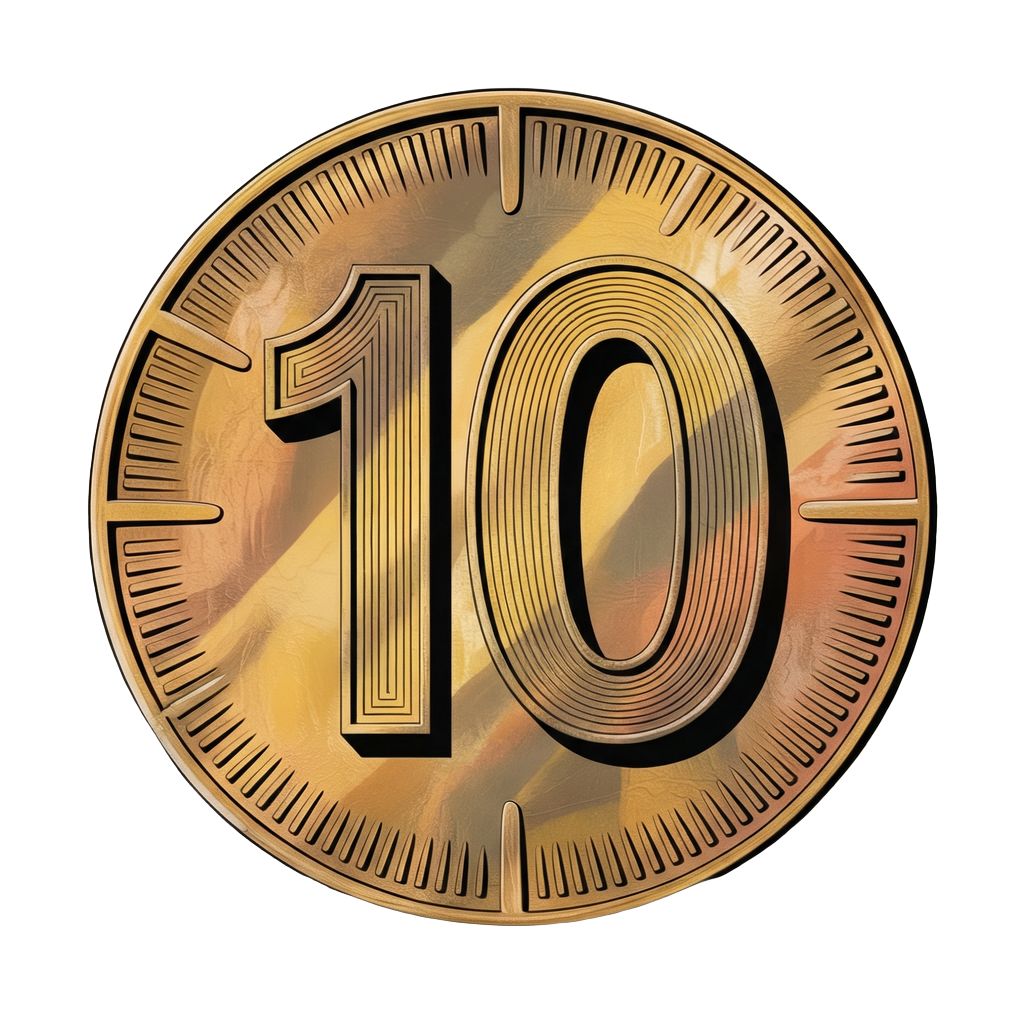
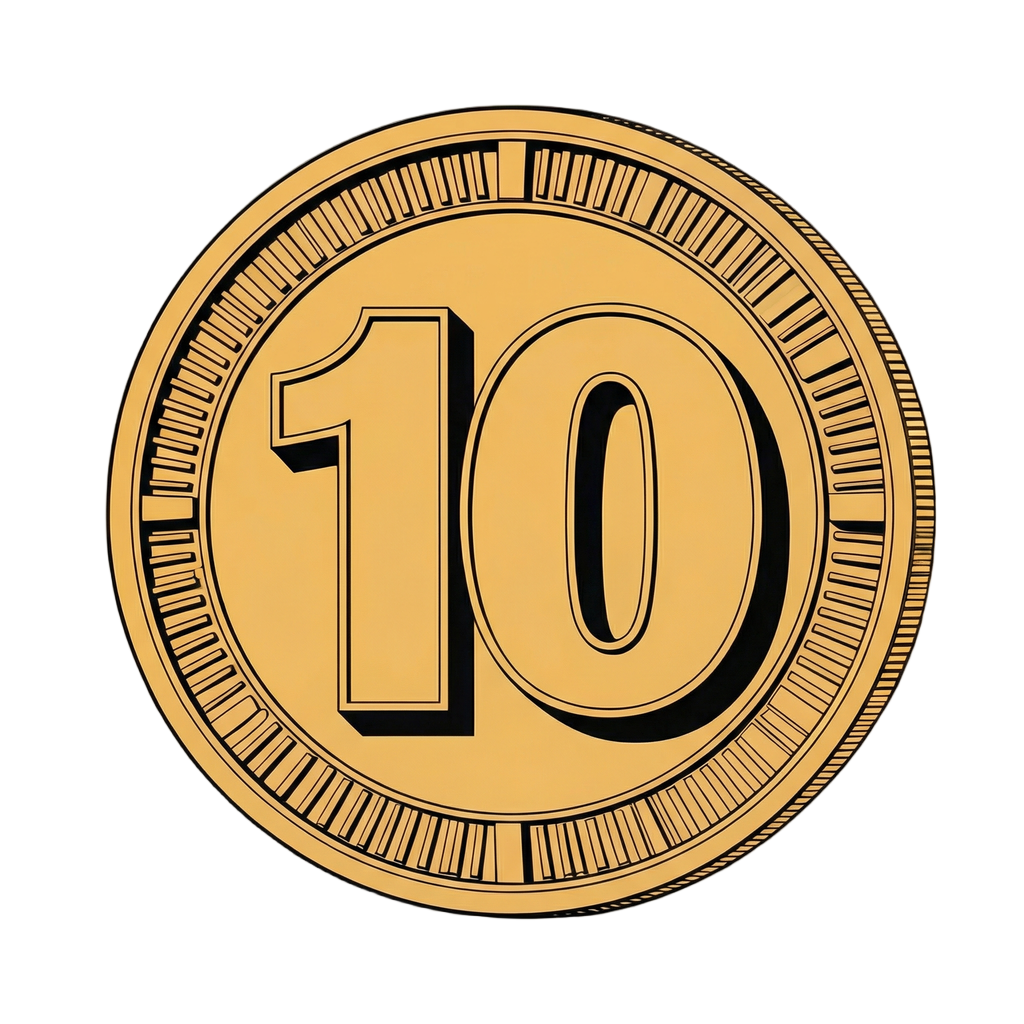
feat: add remaining ware card artwork, tokens, coins, and updated palette
Add all 19 ware card images (pair+one, three-of-a-kind, 6-ware), new coin
denominations (4, 11, 18), ware token images, and updated ware colors.
6-ware card gets a two-row pip layout. Gitignore settings.local.json.

diff --git a/src/ui/CardFace.tsx b/src/ui/CardFace.tsx
@@ -29,6 +29,9 @@ const CARDS_WITH_IMAGES = new Set([
   'well', 'drums', 'throne', 'boat', 'scale',
   'mask_of_transformation', 'supplies', 'kettle', 'leopard_statue', 'weapons',
   'ware_slk', 'ware_khl', 'ware_skf', 'ware_fht', 'ware_tsf', 'ware_lht',
+  'ware_2k1f', 'ware_2l1s', 'ware_2t1l', 'ware_2s1k', 'ware_2f1h', 'ware_2h1t',
+  'ware_3k', 'ware_3h', 'ware_3t', 'ware_3l', 'ware_3f', 'ware_3s',
+  'ware_6all',
 ]);
 
 const WARE_COLORS: Record<WareType, string> = {
@@ -137,6 +140,57 @@ export function CardFace({ cardId, onClick, selected, small, faceDown }: CardFac
             onError={() => setImgError(true)}
           />
           {card.wares ? (
+            card.wares.types.length > 3 ? (
+            /* 6-ware layout: top row of 3 pips, bottom row with coins + 3 pips */
+            <div style={{
+              position: 'absolute',
+              bottom: 0,
+              left: 0,
+              right: 0,
+              display: 'flex',
+              flexDirection: 'column',
+              gap: small ? 1 : 2,
+              padding: small ? 2 : 3,
+              background: 'rgba(0,0,0,0.35)',
+            }}>
+              <div style={{ display: 'flex', gap: small ? 2 : 3, justifyContent: 'center' }}>
+                {card.wares.types.slice(0, 3).map((w, i) => (
+                  <div key={i} style={{
+                    width: small ? 12 : 16,
+                    height: small ? 12 : 16,
+                    borderRadius: small ? 3 : 4,
+                    background: WARE_COLORS[w],
+                    border: '1.5px solid rgba(0,0,0,0.6)',
+                  }} />
+                ))}
+              </div>
+              <div style={{ display: 'flex', alignItems: 'center', justifyContent: 'space-between' }}>
+                <img
+                  src={`/assets/coins/coin_${card.wares.buyPrice}.png`}
+                  alt={`${card.wares.buyPrice}g`}
+                  style={{ width: small ? 14 : 20, height: small ? 14 : 20 }}
+                  draggable={false}
+                />
+                <div style={{ display: 'flex', gap: small ? 2 : 3 }}>
+                  {card.wares.types.slice(3).map((w, i) => (
+                    <div key={i} style={{
+                      width: small ? 12 : 16,
+                      height: small ? 12 : 16,
+                      borderRadius: small ? 3 : 4,
+                      background: WARE_COLORS[w],
+                      border: '1.5px solid rgba(0,0,0,0.6)',
+                    }} />
+                  ))}
+                </div>
+                <img
+                  src={`/assets/coins/coin_${card.wares.sellPrice}.png`}
+                  alt={`${card.wares.sellPrice}g`}
+                  style={{ width: small ? 14 : 20, height: small ? 14 : 20 }}
+                  draggable={false}
+                />
+              </div>
+            </div>
+            ) : (
             <div style={{
               position: 'absolute',
               bottom: 0,
@@ -161,7 +215,7 @@ export function CardFace({ cardId, onClick, selected, small, faceDown }: CardFac
                     height: small ? 12 : 16,
                     borderRadius: small ? 3 : 4,
                     background: WARE_COLORS[w],
-                    border: '1px solid rgba(0,0,0,0.3)',
+                    border: '1.5px solid rgba(0,0,0,0.6)',
                   }} />
                 ))}
               </div>
@@ -172,6 +226,7 @@ export function CardFace({ cardId, onClick, selected, small, faceDown }: CardFac
                 draggable={false}
               />
             </div>
+            )
           ) : (
             <div
               onClick={(e) => { e.stopPropagation(); setShowMega(true); }}
@@ -366,26 +421,20 @@ export function CardFace({ cardId, onClick, selected, small, faceDown }: CardFac
 
 export function WareToken({ type, onClick, selected }: { type: WareType; onClick?: () => void; selected?: boolean }) {
   return (
-    <div
+    <img
+      src={`/assets/tokens/${type}.png`}
+      alt={WARE_LABELS[type]}
       onClick={onClick}
       style={{
         width: 32,
         height: 32,
-        borderRadius: 6,
-        background: WARE_COLORS[type],
-        border: `2px solid ${selected ? 'var(--gold)' : '#0003'}`,
-        display: 'flex',
-        alignItems: 'center',
-        justifyContent: 'center',
-        fontWeight: 700,
-        fontSize: 14,
-        color: '#000',
         cursor: onClick ? 'pointer' : 'default',
         flexShrink: 0,
+        outline: selected ? '2px solid var(--gold)' : 'none',
+        borderRadius: 4,
       }}
-    >
-      {WARE_LABELS[type]}
-    </div>
+      draggable={false}
+    />
   );
 }
 

diff --git a/src/index.css b/src/index.css
@@ -9,12 +9,12 @@
   --text-muted: #8899aa;
 
   /* Ware type colors */
-  --ware-trinkets: #dab2ff;
-  --ware-hides: #A65E31;
-  --ware-tea: #5E903C;
-  --ware-silk: #c02323;
-  --ware-fruit: #eddb37;
-  --ware-salt: #f6f5f4;
+  --ware-trinkets: #c2a8e0;
+  --ware-hides: #c29f7a;
+  --ware-tea: #b1a64b;
+  --ware-silk: #d45a4d;
+  --ware-fruit: #f3c35b;
+  --ware-salt: #fafafa;
 
   /* Card type colors */
   --card-people: #4A90D9;
